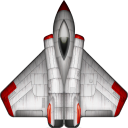
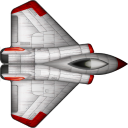
Properly rotated showdown's player sprites

diff --git a/games/ShowDown/ShowDown.cpp b/games/ShowDown/ShowDown.cpp
@@ -20,13 +20,14 @@ std::string ShowDown::getName()
 
 std::string ShowDown::getInstructions()
 {
-	return "Suck up all the papers";
+	return "Shoot other players";
 }
 
 void ShowDown::loadResources()
 {
 	backSprite = resourceManager->getResource<blib::Texture>("assets/games/ShowDown/back.png");
 	playerSprite = resourceManager->getResource<blib::Texture>("assets/games/ShowDown/player.png");
+	playerNormalSprite = resourceManager->getResource<blib::Texture>("assets/games/ShowDown/player.normals.png");
 	font = resourceManager->getResource<blib::Font>("menu");
 
 }
@@ -37,7 +38,7 @@ void ShowDown::start(Difficulty difficulty)
 	for(auto p : players)
 	{
 		p->position = glm::vec2(1920/2, 1080/2) + 400.0f * blib::util::fromAngle(p->index/(float) players.size()*2*(float)M_PI);
-		p->rotation = 0;
+		p->rotation = p->index / (float)players.size() * 2 * (float)M_PI;
 	}
 
 
@@ -48,44 +49,33 @@ void ShowDown::update( float elapsedTime )
 	blib::math::Rectangle screenRect(0,0,1920, 1080);
 	for(auto p : players)
 	{
-		if(p->joystick.a == 1)
-		{
-			glm::vec2 oldPosition = p->position;
-			p->position += 5.0f * blib::util::fromAngle(p->rotation) * 60.0f*elapsedTime;
-			bool collision = false;
-			for(auto pp : players)
-			{
-				if(p == pp)
-					continue;
-				if(glm::length(pp->position - p->position) < 100)
-				{
-					collision = true;
-					pp->rotation += (float)M_PI;
-				}
-			}
-			if (!screenRect.contains(p->position))
-				collision = true;
+		glm::vec2 oldPosition = p->position;
+		p->position += 5.0f * p->joystick.leftStick * 60.0f*elapsedTime;
 
-			if(collision)
+		if (glm::length(p->joystick.leftStick) > 0.1f)
+		{
+			p->rotation = atan2(p->joystick.leftStick.y, p->joystick.leftStick.x);
+		}
+
+		for(auto pp : players)
+		{
+			if(p == pp)
+				continue;
+			glm::vec2 diff = pp->position - p->position;
+			float len = glm::length(diff);
+			if(len < 100)
 			{
-				p->position = oldPosition;
-				p->rotation += (float) M_PI;
+				diff /= len;
+				pp->position -= 0.5f * (len-100) * diff;
+				p->position += 0.5f * (len-100) * diff;
 			}
 		}
-		else
-		{
-			p->rotation += 0.04f*turningFactor * 60 * elapsedTime;
-		}
+		if (!screenRect.contains(p->position))
+			p->position = oldPosition;
+
 
 
 		glm::vec2 suckPos = p->position + 50.0f*blib::util::fromAngle(p->rotation);
-	}
-
-	while ((int)trash.size() < trashCount)
-	{
-		glm::vec2 v(0,0);
-		while (!blib::linq::any(players, [this, &v] (ShowDownPlayer* p) { return glm::length(p->position - (v = glm::vec2(blib::math::randomFloat(100.0f, 1920 - 200.0f), blib::math::randomFloat(100.0f, 1080 - 200.0f)))) > 600.0f; })) {}
-		trash.push_back(v);
 	}
 }
 

diff --git a/games/ShowDown/ShowDown.h b/games/ShowDown/ShowDown.h
@@ -11,6 +11,7 @@ class ShowDown : public AliveGame<ShowDownPlayer>
 	blib::Texture* backSprite;
 	blib::Texture* trashSprite;
 	blib::Texture* playerSprite;
+	blib::Texture* playerNormalSprite;
 	blib::Font* font;
 
 	int trashCount;
